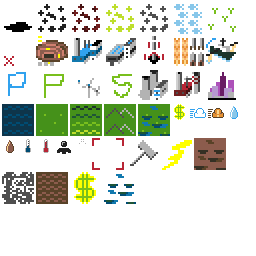
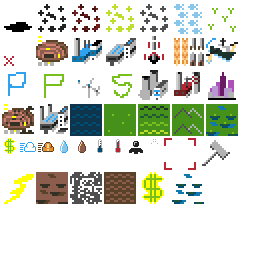
Add sprites for foundry and iron mine

Changed region(s): [[0.0, 0.4062, 0.9375, 0.8125], [0.6562, 0.7188, 0.8125, 0.8125]]

diff --git a/src/yogo/ui/tileset.rb b/src/yogo/ui/tileset.rb
@@ -6,7 +6,7 @@ module YOGO
 
       TERRAIN = [ :water, :grass, :hills, :mountains ]
       RESOURCES = [ :oil, :coal, :iron, :uranium, :aluminum, :fish, :arable, :blank ]
-      STRUCTURES = [ :mine, :coal_power_station, :factory, :well, :farm, :fishing_fleet, :platform, :plantation, :wind_farm, :solar_farm, :nuclear_plant, :oil_power_station, :city ]
+      STRUCTURES = [ :iron_mine, :coal_power_station, :factory, :well, :farm, :fishing_fleet, :platform, :plantation, :wind_farm, :solar_farm, :nuclear_plant, :oil_power_station, :city, :coal_mine, :foundry ]
       UI = [ :selected, :production, :power, :land_pollution, :air_pollution, :water_pollution, :cash, :swamp ]
       UI16 = [ :cash, :clean_air, :dirty_air, :clean_water, :dirty_water, :low_temp, :high_temp, :crap_person, :person ]
 
